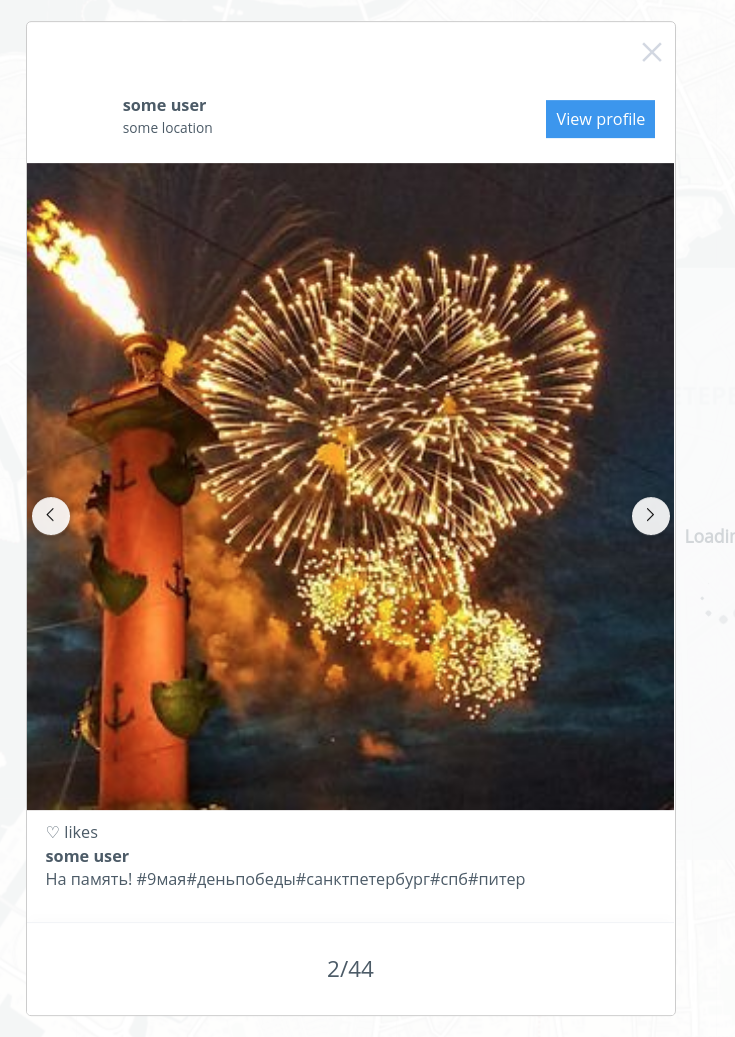
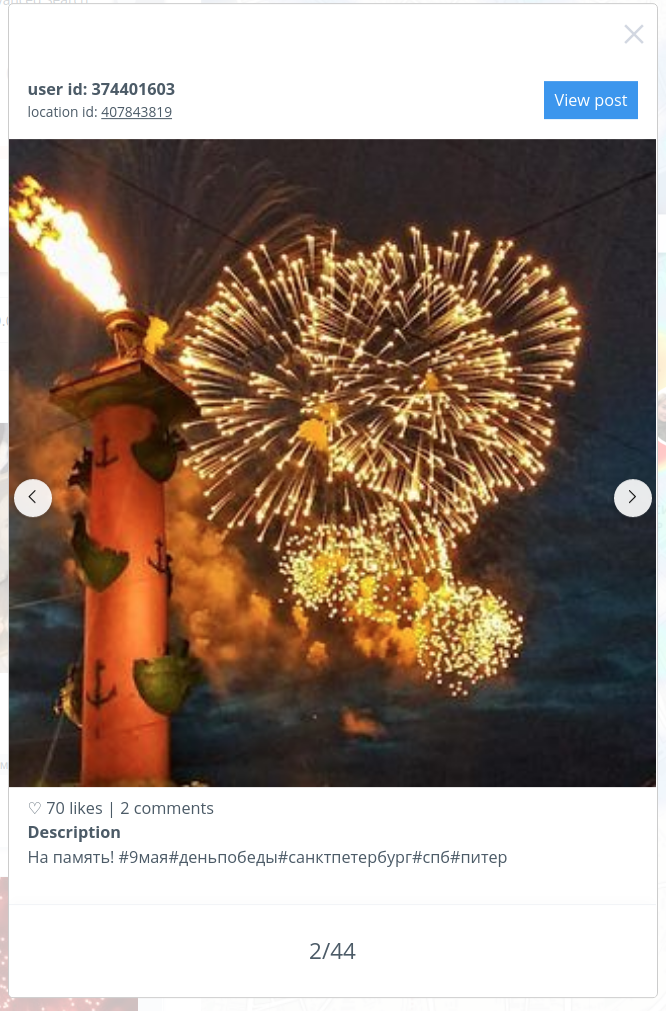
update description of user interface

diff --git a/front/README.md b/front/README.md
@@ -54,18 +54,7 @@ the event window opens.
 
 ## Event window
 
-TODO: Change the displayed content and layout.
-
-Information that needs to be displayed:
-- user id (numeric string from 5 to 11 digits) from backend request
-- location id (numeric string from 5 to 16 digits) from backend request <br>
-OR location name (more preferable) from GET request "https://www.instagram.com/explore/locations/{locationID}/?__a=1"
-json object: response.data.native_location_data.location_info.name
-- link to location (by click on location id/name) - "https://www.instagram.com/explore/locations/{locationID}"
-- link to post In Instagram - "https://www.instagram.com/p/{shortcode}/"
-- post's image (or stub if the photo has been deleted) - from backend request
-- likes count and comments count (int, int) - from backend request
-- Text of the post (string, mostly 10-50 words, but may be several hundred words) - from backend request
+Main information about posts in the event.
 
 ![img.png](../data/front_readme/event_window.png)
 
